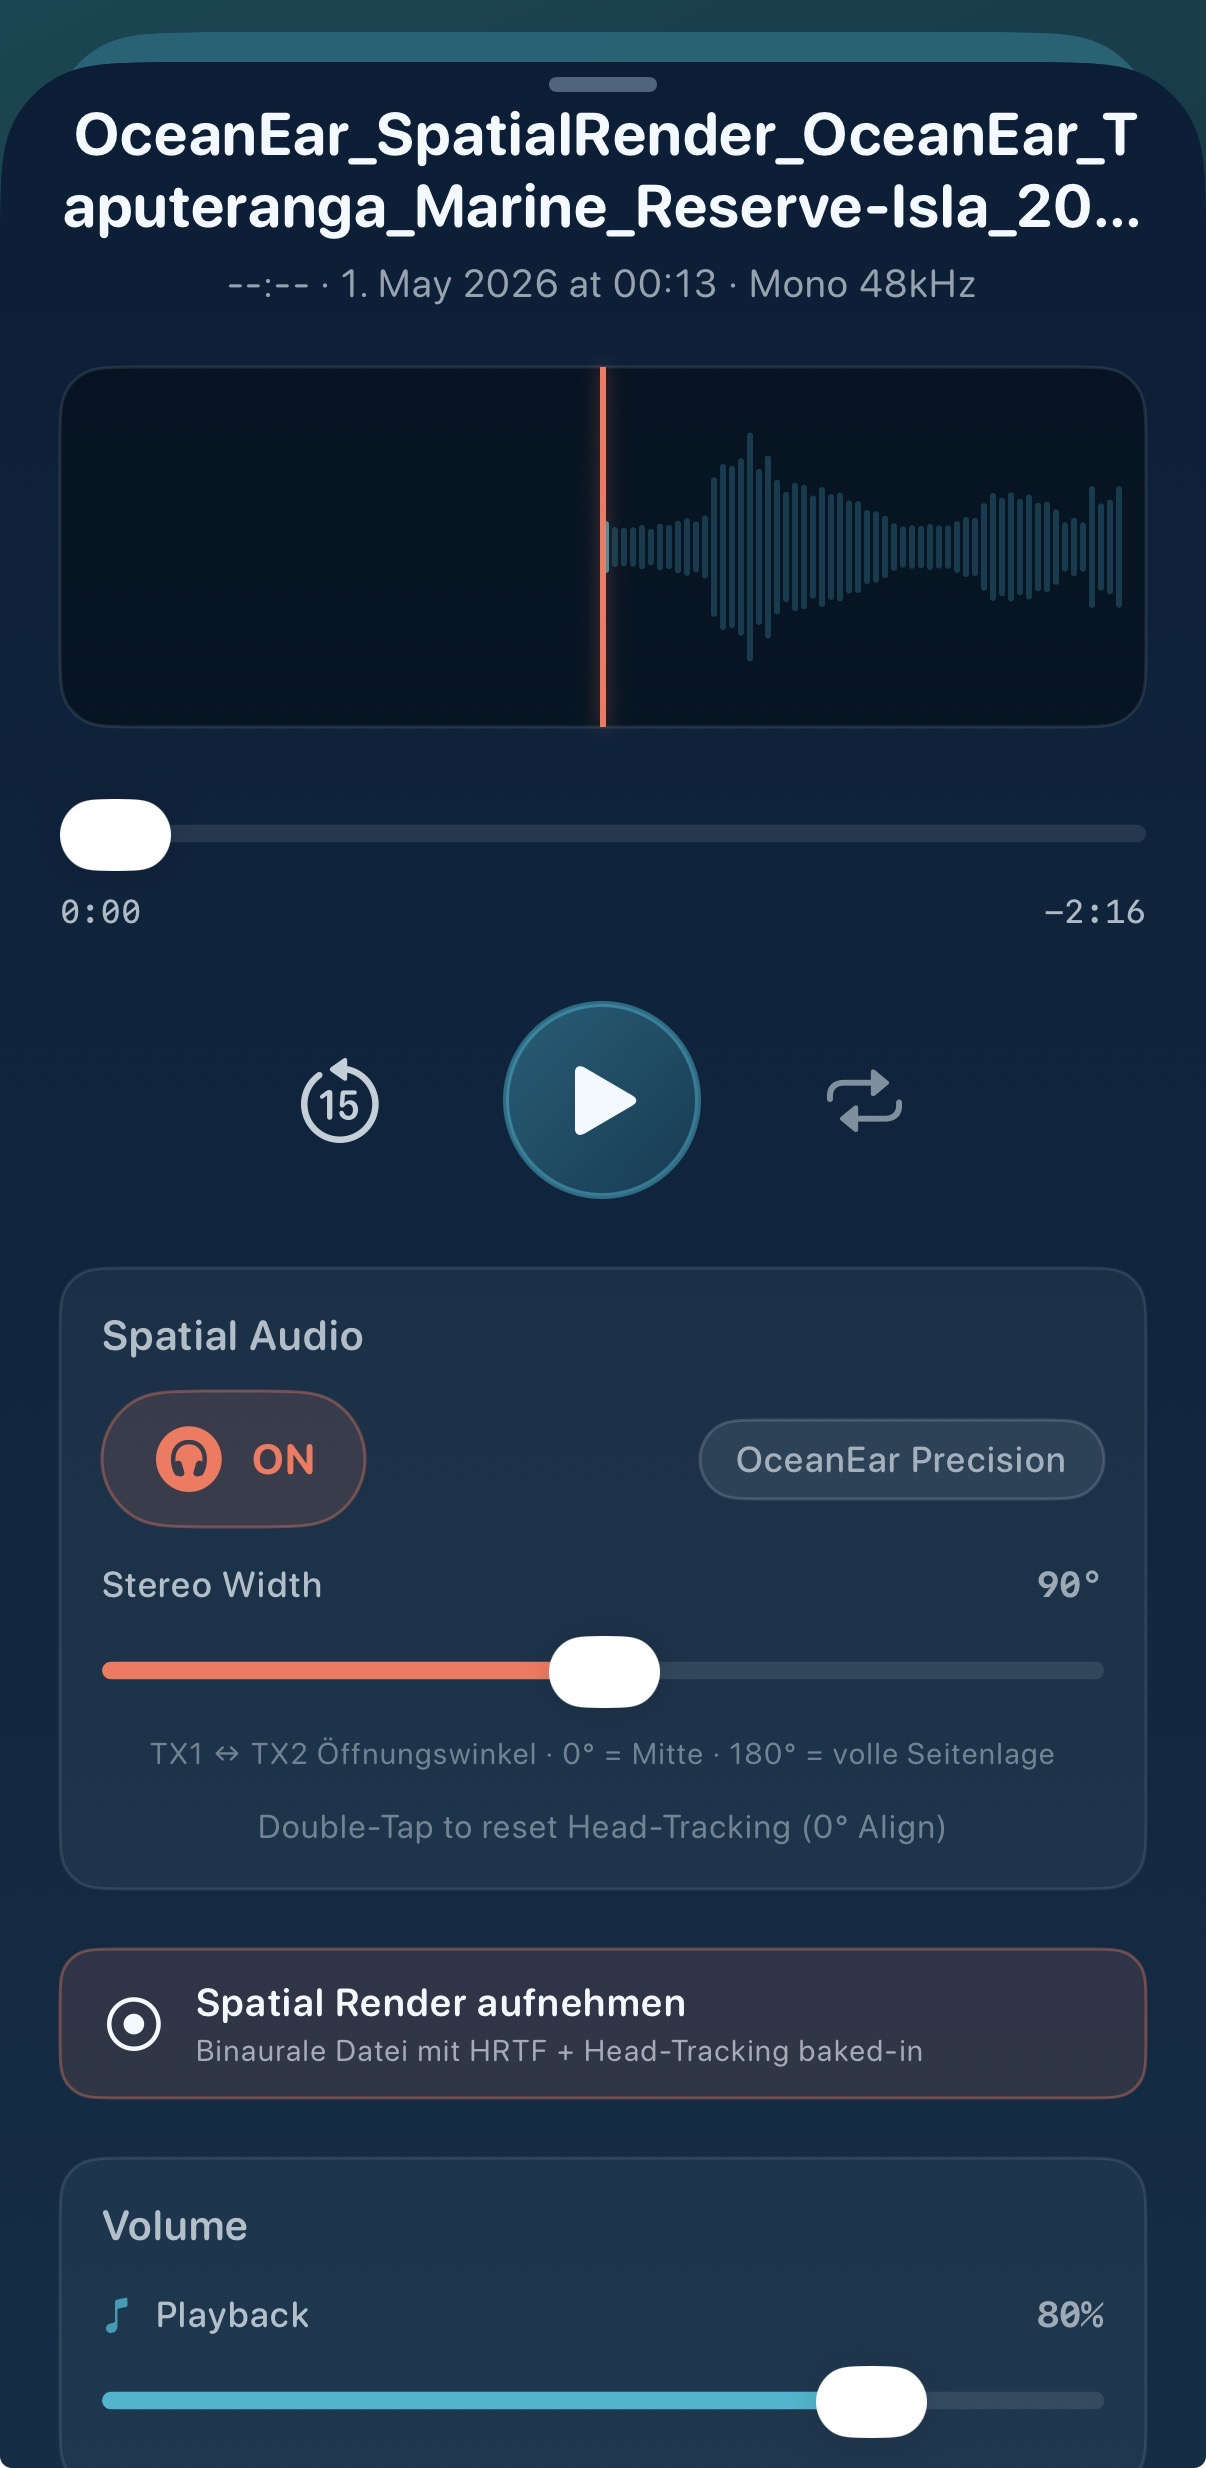
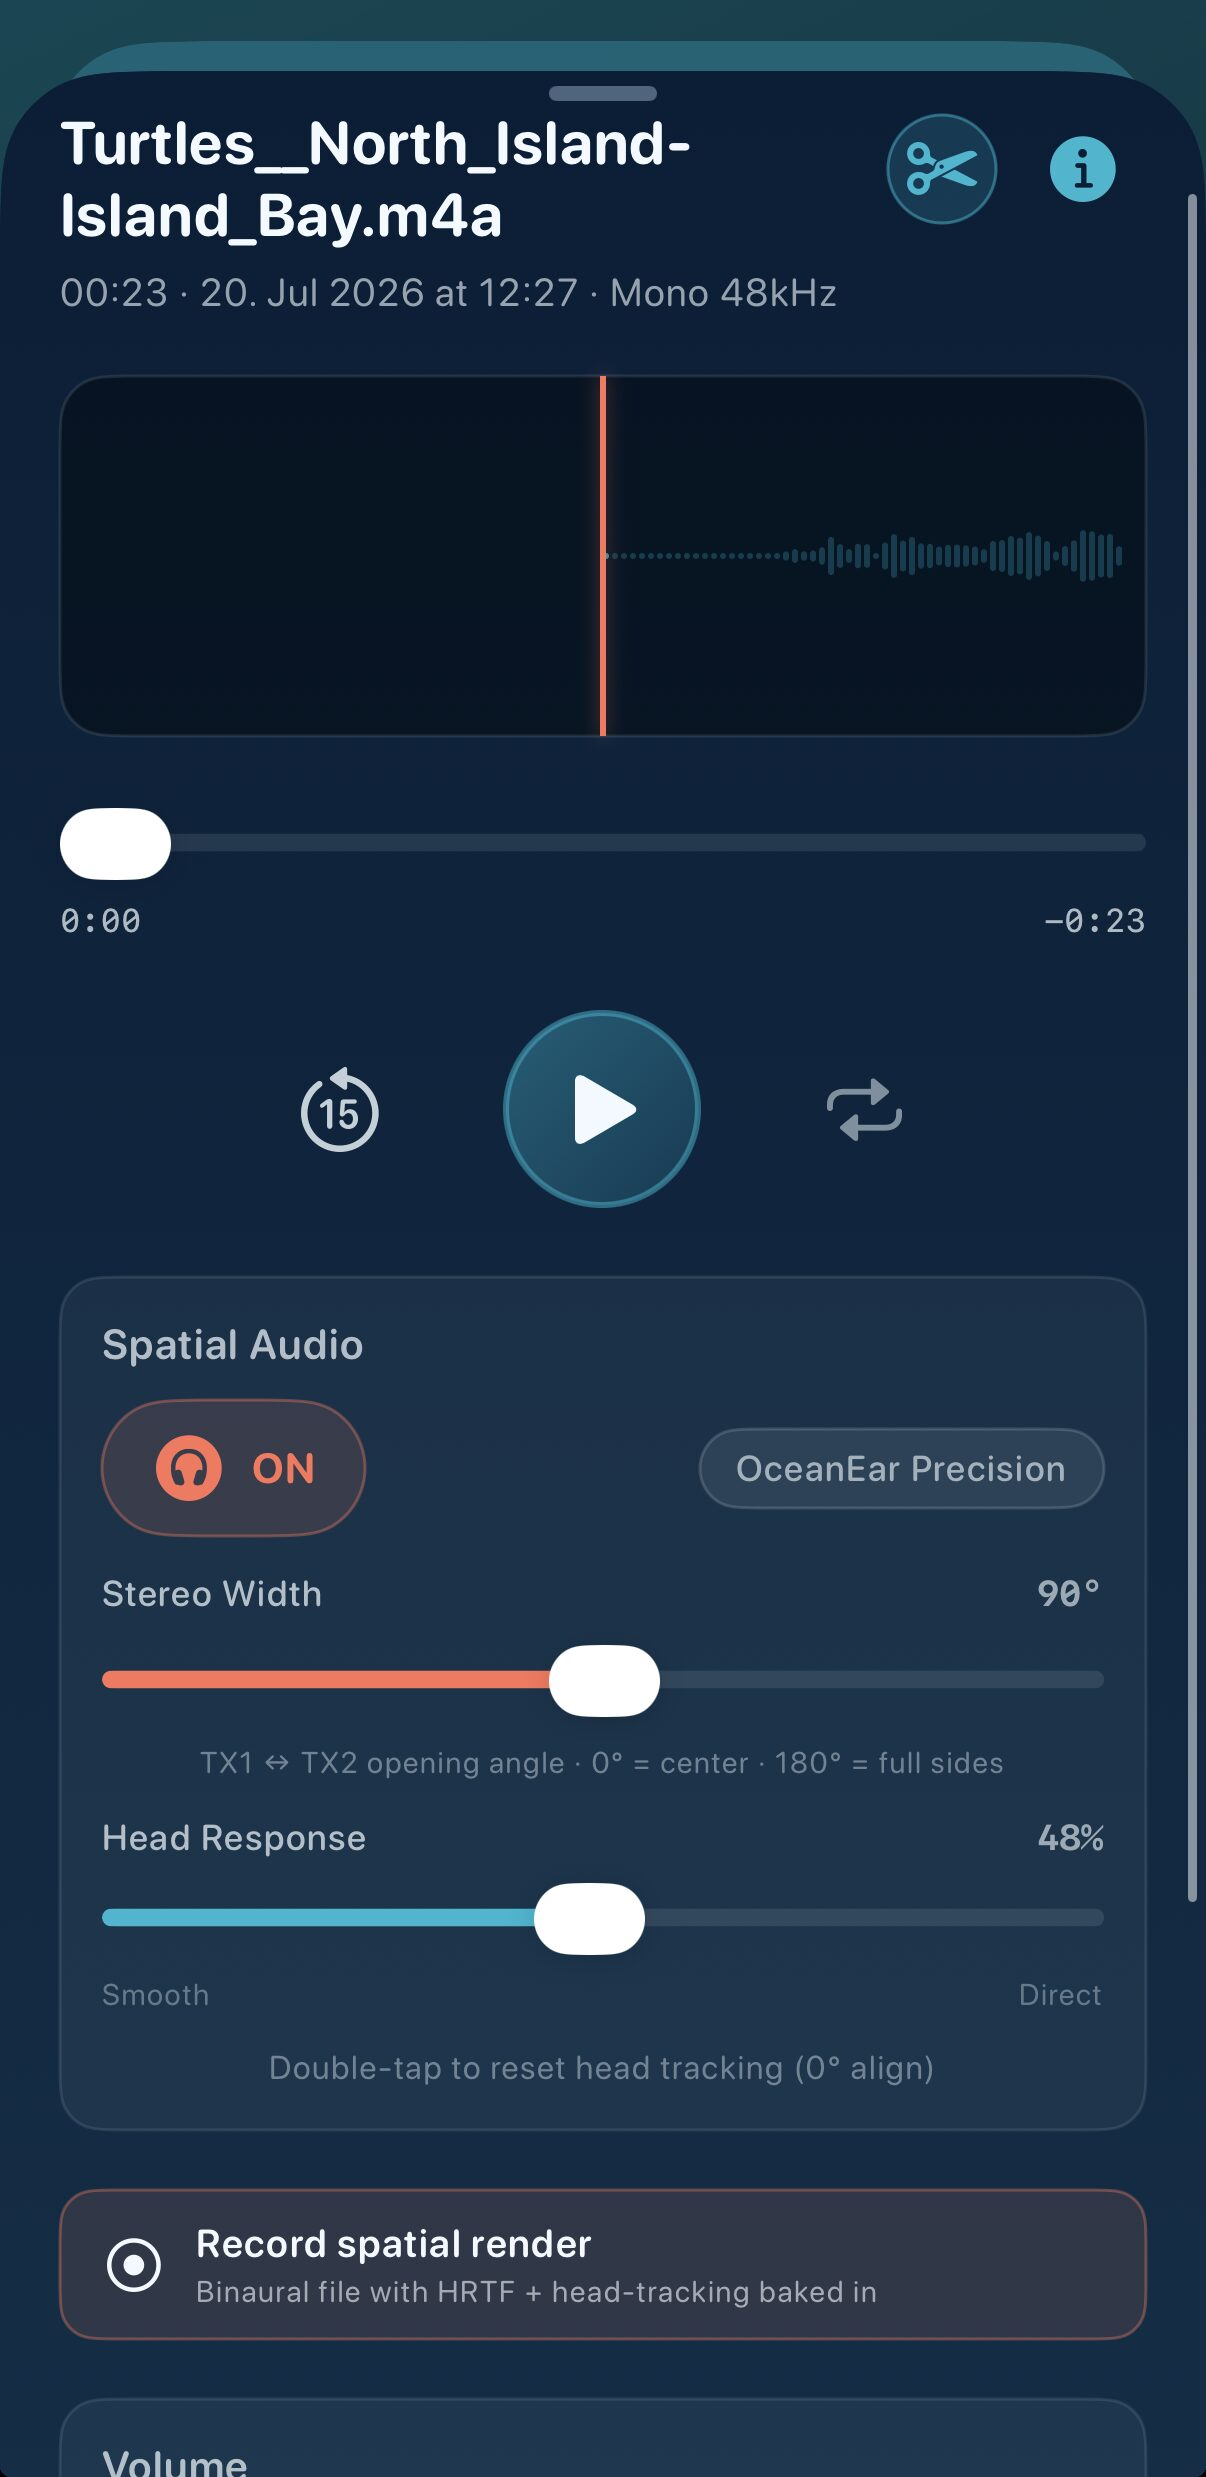
Write the wordmark as OceanEar®, refresh the record shot, add a fourth app screen
The wordmark was hard-coded as OCEAN<span>EAR</span>, so the site read
OCEANEAR everywhere. Set it in mixed case in the nav and footer of every
page and in the hero phone mockup, and add the registered mark: a small
muted superscript after the wordmark, plus OceanEar® in the copyright line.

Swap the record section's screenshot for the current spatial-render screen
(status bar cropped so it frames like the old one), and add the recording
details screen -- map, coordinates, altitude, sample rate, start time -- as
a fourth carousel card with its own caption and tab. The deck JS already
works off cards.length, so it needed no change.

diff --git a/index.html b/index.html
@@ -216,6 +216,7 @@ nav{
 }
 .logo{font-weight:800;font-size:1.1rem;color:var(--c-text);text-decoration:none;letter-spacing:-.02em}
 .logo span{color:var(--c-cyan)}
+.logo .rtm{font-size:.48em;font-weight:600;letter-spacing:0;line-height:0;margin-left:.12em;color:var(--c-text-mute)}
 nav .links{display:flex;gap:1rem;align-items:center}
 nav a.nl{
   color:var(--c-text-mute);text-decoration:none;
@@ -780,7 +781,7 @@ footer .logo{font-size:1rem}
 <div id="bg"></div>
 
 <nav>
-  <a href="#hero" class="logo">OCEAN<span>EAR</span></a>
+  <a href="#hero" class="logo">Ocean<span>Ear</span><sup class="rtm">&reg;</sup></a>
   <div class="links">
     <a href="#reserve" class="nl cta">Reserve Kit</a>
     <a href="about.html" class="nl">About</a>
@@ -808,7 +809,7 @@ footer .logo{font-size:1rem}
     <div class="hero-phone-col reveal reveal-2">
       <div class="phone">
         <div class="phone-notch"></div>
-        <div class="phone-head">OCEAN <span>EAR</span></div>
+        <div class="phone-head">Ocean<span>Ear</span></div>
         <div class="phone-status">
           <div class="phone-status-pill">
             <span class="dot"></span>
@@ -953,7 +954,7 @@ footer .logo{font-size:1rem}
       <div class="reveal" style="text-align:center;margin-bottom:2.5rem">
         <span class="eyebrow">Inside</span>
         <h2 style="font-size:clamp(2rem,4.5vw,3rem)">Connect it. Share it.<br>Find it <span style="color:var(--c-cyan)">again.</span></h2>
-        <p class="lede" style="margin:1rem auto 0">The rest of the app, in three screens. Everything local, everything private.</p>
+        <p class="lede" style="margin:1rem auto 0">The rest of the app, in four screens. Everything local, everything private.</p>
         <div class="pills" style="justify-content:center;margin-top:1.6rem">
           <span class="pill">Plug and play</span>
           <span class="pill coral">One-tap share</span>
@@ -979,6 +980,11 @@ footer .logo{font-size:1rem}
                  alt="Library screen: recordings list with search, favourites, storage total and GPS metadata badges"
                  loading="lazy" decoding="async">
           </button>
+          <button type="button" class="shots-card" aria-label="Show recording details screen">
+            <img src="screen-details.jpg" width="900" height="1857"
+                 alt="Details screen: the recording pinned on a map, with altitude, duration, file size, coordinates, sample rate and start time"
+                 loading="lazy" decoding="async">
+          </button>
         </div>
 
         <div class="shots-caps" aria-live="polite">
@@ -997,6 +1003,11 @@ footer .logo{font-size:1rem}
             <h3>Every take, still findable.</h3>
             <p>Search by name, location or date. Favourites, GPS and metadata on every file. Storage at a glance. iCloud keeps them when your phone doesn&rsquo;t.</p>
           </div>
+          <div class="shots-cap" aria-hidden="true">
+            <span class="shots-kicker">Details</span>
+            <h3>Pinned to the spot.</h3>
+            <p>Every take carries its own map. Coordinates, altitude, duration, sample rate and start time, written into the file and still readable a season later.</p>
+          </div>
         </div>
 
         <div class="shots-ctrl">
@@ -1007,6 +1018,7 @@ footer .logo{font-size:1rem}
             <button type="button" class="shots-tab" aria-current="true" aria-label="Show connected screen"></button>
             <button type="button" class="shots-tab" aria-label="Show share clip screen"></button>
             <button type="button" class="shots-tab" aria-label="Show library screen"></button>
+            <button type="button" class="shots-tab" aria-label="Show recording details screen"></button>
           </div>
           <button type="button" class="shots-arrow" data-shots-dir="1" aria-label="Next screen">
             <svg width="16" height="16" viewBox="0 0 24 24" fill="none" aria-hidden="true"><path d="M9 5l7 7-7 7" stroke="currentColor" stroke-width="2.5" stroke-linecap="round" stroke-linejoin="round"/></svg>
@@ -1103,7 +1115,7 @@ footer .logo{font-size:1rem}
 </div>
 
 <footer>
-  <a href="#hero" class="logo">OCEAN<span>EAR</span></a>
+  <a href="#hero" class="logo">Ocean<span>Ear</span><sup class="rtm">&reg;</sup></a>
   <div class="foot-links">
     <a href="#reserve">Reserve Kit</a>
     <a href="#specs">Specs</a>
@@ -1115,7 +1127,7 @@ footer .logo{font-size:1rem}
     <a href="mailto:hello@oceanear.co.nz">Contact</a>
   </div>
   <p class="foot-recording">All sample recordings on this page were captured with the OceanEar kit on the south coast of Wellington.</p>
-  <p class="foot-meta">&copy; 2026 OceanEar.<br><span class="foot-loc">Wellington &middot; New Zealand</span></p>
+  <p class="foot-meta">&copy; 2026 OceanEar&reg;.<br><span class="foot-loc">Wellington &middot; New Zealand</span></p>
 </footer>
 
 <script src="https://cdnjs.cloudflare.com/ajax/libs/three.js/r128/three.min.js"></script>

diff --git a/about.html b/about.html
@@ -86,6 +86,7 @@ nav{
 }
 .logo{font-weight:700;font-size:1.25rem;color:#fff;text-decoration:none;letter-spacing:-0.02em}
 .logo span{color:#4cc1d4}
+.logo .rtm{font-size:.48em;font-weight:600;letter-spacing:0;line-height:0;margin-left:.12em;color:rgba(160,196,203,.6)}
 nav a.nl{color:rgba(160,196,203,.6);text-decoration:none;font-size:.82rem;font-weight:600;transition:color .3s}
 nav a.nl:hover,nav a.nl.active{color:#fff}
 .nc{background:#f47b62;color:#fff!important;padding:7px 16px;border-radius:50px}
@@ -200,7 +201,7 @@ nav a.nl:hover,nav a.nl.active{color:#fff}
 </div>
 
 <nav>
-  <a href="index.html" class="logo">OCEAN<span>EAR</span></a>
+  <a href="index.html" class="logo">Ocean<span>Ear</span><sup class="rtm">&reg;</sup></a>
   <div style="display:flex;gap:1.2rem;align-items:center">
     <a href="index.html#reserve" class="nl nc">Reserve Kit</a>
     <a href="about.html" class="nl active">About</a>
@@ -244,7 +245,7 @@ nav a.nl:hover,nav a.nl.active{color:#fff}
 </main>
 
 <footer class="site-footer">
-  <a href="index.html" class="logo">OCEAN<span>EAR</span></a>
+  <a href="index.html" class="logo">Ocean<span>Ear</span><sup class="rtm">&reg;</sup></a>
   <div class="site-footer-links">
     <a href="index.html#reserve">Reserve Kit</a>
     <a href="services.html">Services</a>
@@ -254,7 +255,7 @@ nav a.nl:hover,nav a.nl.active{color:#fff}
     <a href="privacy.html">Privacy</a>
     <a href="mailto:hello@oceanear.co.nz">Contact</a>
   </div>
-  <p class="site-footer-meta">&copy; 2026 OceanEar.<br><span class="loc">Wellington &middot; New Zealand</span></p>
+  <p class="site-footer-meta">&copy; 2026 OceanEar&reg;.<br><span class="loc">Wellington &middot; New Zealand</span></p>
 </footer>
 
 </body>

diff --git a/privacy.html b/privacy.html
@@ -65,6 +65,7 @@ nav{
 }
 .logo{font-weight:700;font-size:1.25rem;color:#fff;text-decoration:none;letter-spacing:-0.02em}
 .logo span{color:#4cc1d4}
+.logo .rtm{font-size:.48em;font-weight:600;letter-spacing:0;line-height:0;margin-left:.12em;color:rgba(160,196,203,.6)}
 nav a.nl{color:rgba(160,196,203,.6);text-decoration:none;font-size:.82rem;font-weight:600;transition:color .3s}
 nav a.nl:hover,nav a.nl.active{color:#fff}
 .nc{background:#f47b62;color:#fff!important;padding:7px 16px;border-radius:50px}
@@ -163,7 +164,7 @@ nav a.nl:hover,nav a.nl.active{color:#fff}
 </div>
 
 <nav>
-  <a href="index.html" class="logo">OCEAN<span>EAR</span></a>
+  <a href="index.html" class="logo">Ocean<span>Ear</span><sup class="rtm">&reg;</sup></a>
   <div style="display:flex;gap:1.2rem;align-items:center">
     <a href="index.html#reserve" class="nl nc">Reserve Kit</a>
     <a href="about.html" class="nl">About</a>
@@ -283,7 +284,7 @@ nav a.nl:hover,nav a.nl.active{color:#fff}
 </main>
 
 <footer class="site-footer">
-  <a href="index.html" class="logo">OCEAN<span>EAR</span></a>
+  <a href="index.html" class="logo">Ocean<span>Ear</span><sup class="rtm">&reg;</sup></a>
   <div class="site-footer-links">
     <a href="index.html#reserve">Reserve Kit</a>
     <a href="services.html">Services</a>
@@ -293,7 +294,7 @@ nav a.nl:hover,nav a.nl.active{color:#fff}
     <a href="privacy.html">Privacy</a>
     <a href="mailto:hello@oceanear.co.nz">Contact</a>
   </div>
-  <p class="site-footer-meta">&copy; 2026 OceanEar.<br><span class="loc">Wellington &middot; New Zealand</span></p>
+  <p class="site-footer-meta">&copy; 2026 OceanEar&reg;.<br><span class="loc">Wellington &middot; New Zealand</span></p>
 </footer>
 
 </body>

diff --git a/services.html b/services.html
@@ -82,6 +82,7 @@ nav{
 }
 .logo{font-weight:700;font-size:1.25rem;color:#fff;text-decoration:none;letter-spacing:-0.02em}
 .logo span{color:#4cc1d4}
+.logo .rtm{font-size:.48em;font-weight:600;letter-spacing:0;line-height:0;margin-left:.12em;color:rgba(160,196,203,.6)}
 nav a.nl{color:rgba(160,196,203,.6);text-decoration:none;font-size:.82rem;font-weight:600;transition:color .3s}
 nav a.nl:hover,nav a.nl.active{color:#fff}
 .nc{background:#f47b62;color:#fff!important;padding:7px 16px;border-radius:50px}
@@ -211,7 +212,7 @@ nav a.nl:hover,nav a.nl.active{color:#fff}
 </div>
 
 <nav>
-  <a href="index.html" class="logo">OCEAN<span>EAR</span></a>
+  <a href="index.html" class="logo">Ocean<span>Ear</span><sup class="rtm">&reg;</sup></a>
   <div style="display:flex;gap:1.2rem;align-items:center">
     <a href="index.html#reserve" class="nl nc">Reserve Kit</a>
     <a href="about.html" class="nl">About</a>
@@ -270,7 +271,7 @@ nav a.nl:hover,nav a.nl.active{color:#fff}
 </main>
 
 <footer class="site-footer">
-  <a href="index.html" class="logo">OCEAN<span>EAR</span></a>
+  <a href="index.html" class="logo">Ocean<span>Ear</span><sup class="rtm">&reg;</sup></a>
   <div class="site-footer-links">
     <a href="index.html#reserve">Reserve Kit</a>
     <a href="services.html">Services</a>
@@ -280,7 +281,7 @@ nav a.nl:hover,nav a.nl.active{color:#fff}
     <a href="privacy.html">Privacy</a>
     <a href="mailto:hello@oceanear.co.nz">Contact</a>
   </div>
-  <p class="site-footer-meta">&copy; 2026 OceanEar.<br><span class="loc">Wellington &middot; New Zealand</span></p>
+  <p class="site-footer-meta">&copy; 2026 OceanEar&reg;.<br><span class="loc">Wellington &middot; New Zealand</span></p>
 </footer>
 
 </body>

diff --git a/support.html b/support.html
@@ -71,6 +71,7 @@ nav{
 }
 .logo{font-weight:700;font-size:1.25rem;color:#fff;text-decoration:none;letter-spacing:-0.02em}
 .logo span{color:#4cc1d4}
+.logo .rtm{font-size:.48em;font-weight:600;letter-spacing:0;line-height:0;margin-left:.12em;color:rgba(160,196,203,.6)}
 nav a.nl{color:rgba(160,196,203,.6);text-decoration:none;font-size:.82rem;font-weight:600;transition:color .3s}
 nav a.nl:hover,nav a.nl.active{color:#fff}
 .nc{background:#f47b62;color:#fff!important;padding:7px 16px;border-radius:50px}
@@ -165,7 +166,7 @@ nav a.nl:hover,nav a.nl.active{color:#fff}
 </div>
 
 <nav>
-  <a href="index.html" class="logo">OCEAN<span>EAR</span></a>
+  <a href="index.html" class="logo">Ocean<span>Ear</span><sup class="rtm">&reg;</sup></a>
   <div style="display:flex;gap:1.2rem;align-items:center">
     <a href="index.html#reserve" class="nl nc">Reserve Kit</a>
     <a href="about.html" class="nl">About</a>
@@ -207,7 +208,7 @@ nav a.nl:hover,nav a.nl.active{color:#fff}
 </main>
 
 <footer class="site-footer">
-  <a href="index.html" class="logo">OCEAN<span>EAR</span></a>
+  <a href="index.html" class="logo">Ocean<span>Ear</span><sup class="rtm">&reg;</sup></a>
   <div class="site-footer-links">
     <a href="index.html#reserve">Reserve Kit</a>
     <a href="about.html">About</a>
@@ -217,7 +218,7 @@ nav a.nl:hover,nav a.nl.active{color:#fff}
     <a href="privacy.html">Privacy</a>
     <a href="mailto:hello@oceanear.co.nz">Contact</a>
   </div>
-  <p class="site-footer-meta">&copy; 2026 OceanEar.<br><span class="loc">Wellington &middot; New Zealand</span></p>
+  <p class="site-footer-meta">&copy; 2026 OceanEar&reg;.<br><span class="loc">Wellington &middot; New Zealand</span></p>
 </footer>
 
 </body>

diff --git a/terms.html b/terms.html
@@ -71,6 +71,7 @@ nav{
 }
 .logo{font-weight:700;font-size:1.25rem;color:#fff;text-decoration:none;letter-spacing:-0.02em}
 .logo span{color:#4cc1d4}
+.logo .rtm{font-size:.48em;font-weight:600;letter-spacing:0;line-height:0;margin-left:.12em;color:rgba(160,196,203,.6)}
 nav a.nl{color:rgba(160,196,203,.6);text-decoration:none;font-size:.82rem;font-weight:600;transition:color .3s}
 nav a.nl:hover,nav a.nl.active{color:#fff}
 .nc{background:#f47b62;color:#fff!important;padding:7px 16px;border-radius:50px}
@@ -169,7 +170,7 @@ nav a.nl:hover,nav a.nl.active{color:#fff}
 </div>
 
 <nav>
-  <a href="index.html" class="logo">OCEAN<span>EAR</span></a>
+  <a href="index.html" class="logo">Ocean<span>Ear</span><sup class="rtm">&reg;</sup></a>
   <div style="display:flex;gap:1.2rem;align-items:center">
     <a href="index.html#reserve" class="nl nc">Reserve Kit</a>
     <a href="about.html" class="nl">About</a>
@@ -237,7 +238,7 @@ nav a.nl:hover,nav a.nl.active{color:#fff}
 </main>
 
 <footer class="site-footer">
-  <a href="index.html" class="logo">OCEAN<span>EAR</span></a>
+  <a href="index.html" class="logo">Ocean<span>Ear</span><sup class="rtm">&reg;</sup></a>
   <div class="site-footer-links">
     <a href="index.html#reserve">Reserve Kit</a>
     <a href="about.html">About</a>
@@ -247,7 +248,7 @@ nav a.nl:hover,nav a.nl.active{color:#fff}
     <a href="privacy.html">Privacy</a>
     <a href="mailto:hello@oceanear.co.nz">Contact</a>
   </div>
-  <p class="site-footer-meta">&copy; 2026 OceanEar.<br><span class="loc">Wellington &middot; New Zealand</span></p>
+  <p class="site-footer-meta">&copy; 2026 OceanEar&reg;.<br><span class="loc">Wellington &middot; New Zealand</span></p>
 </footer>
 
 </body>
